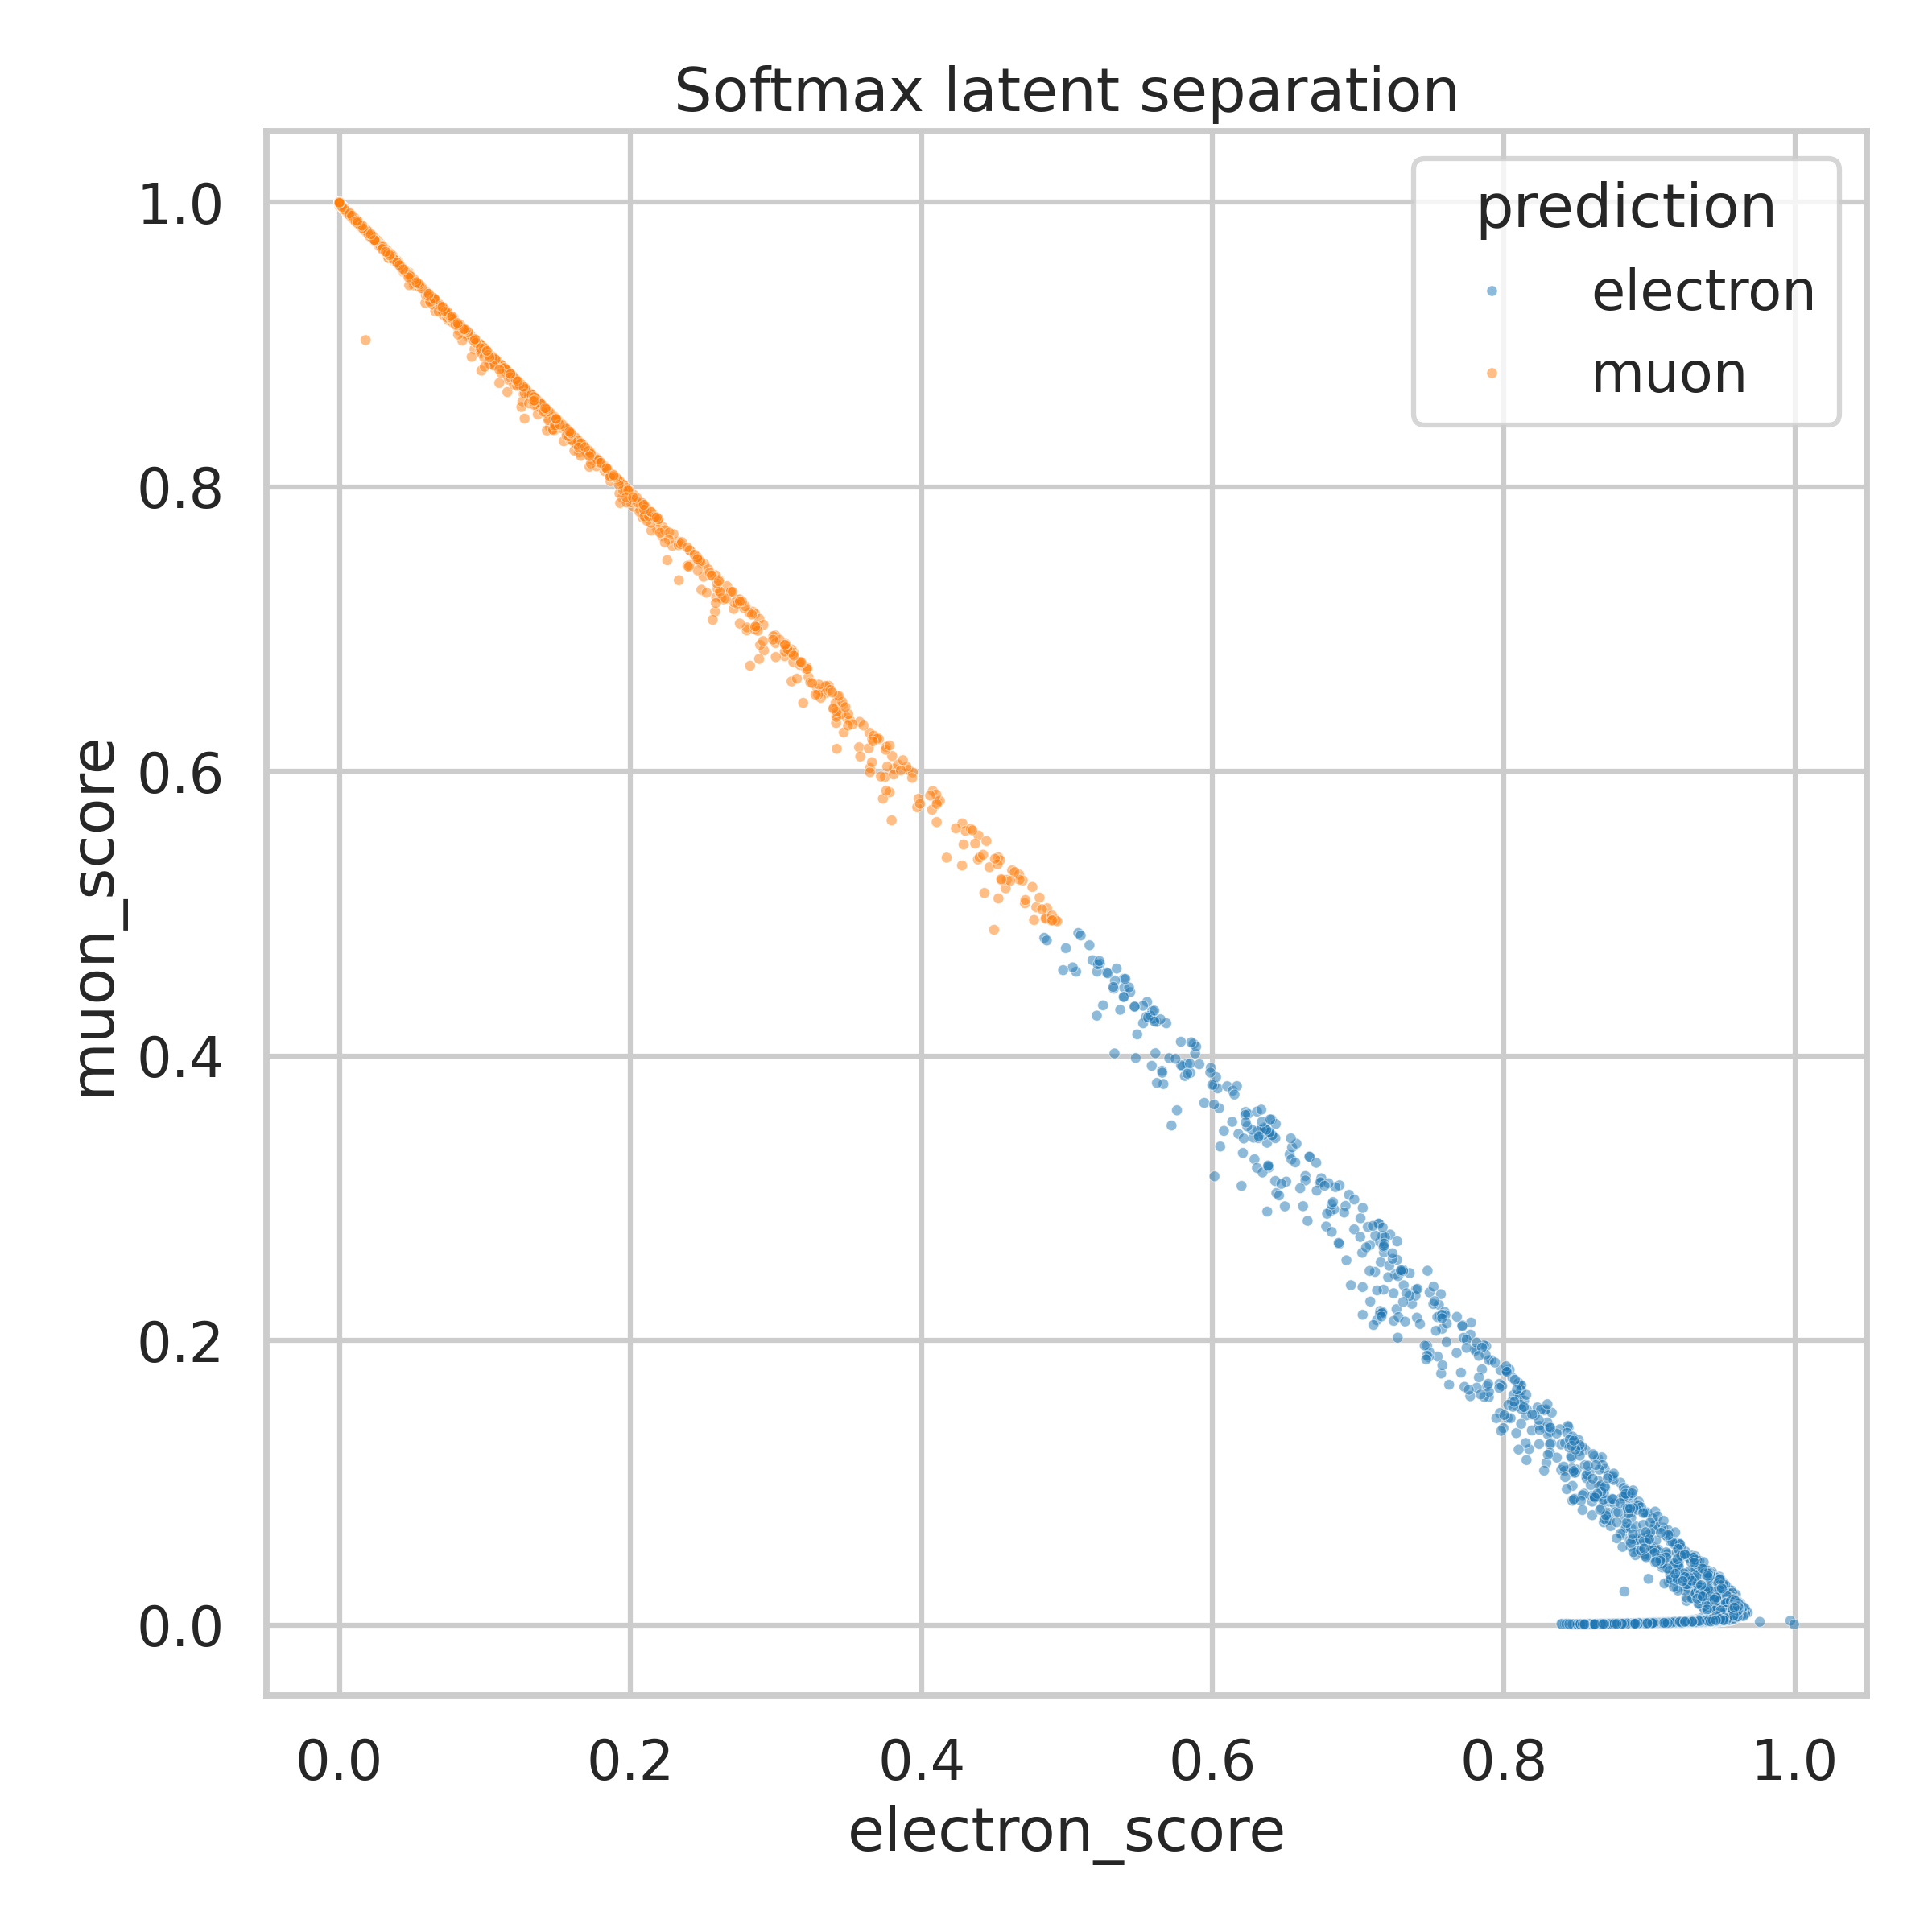
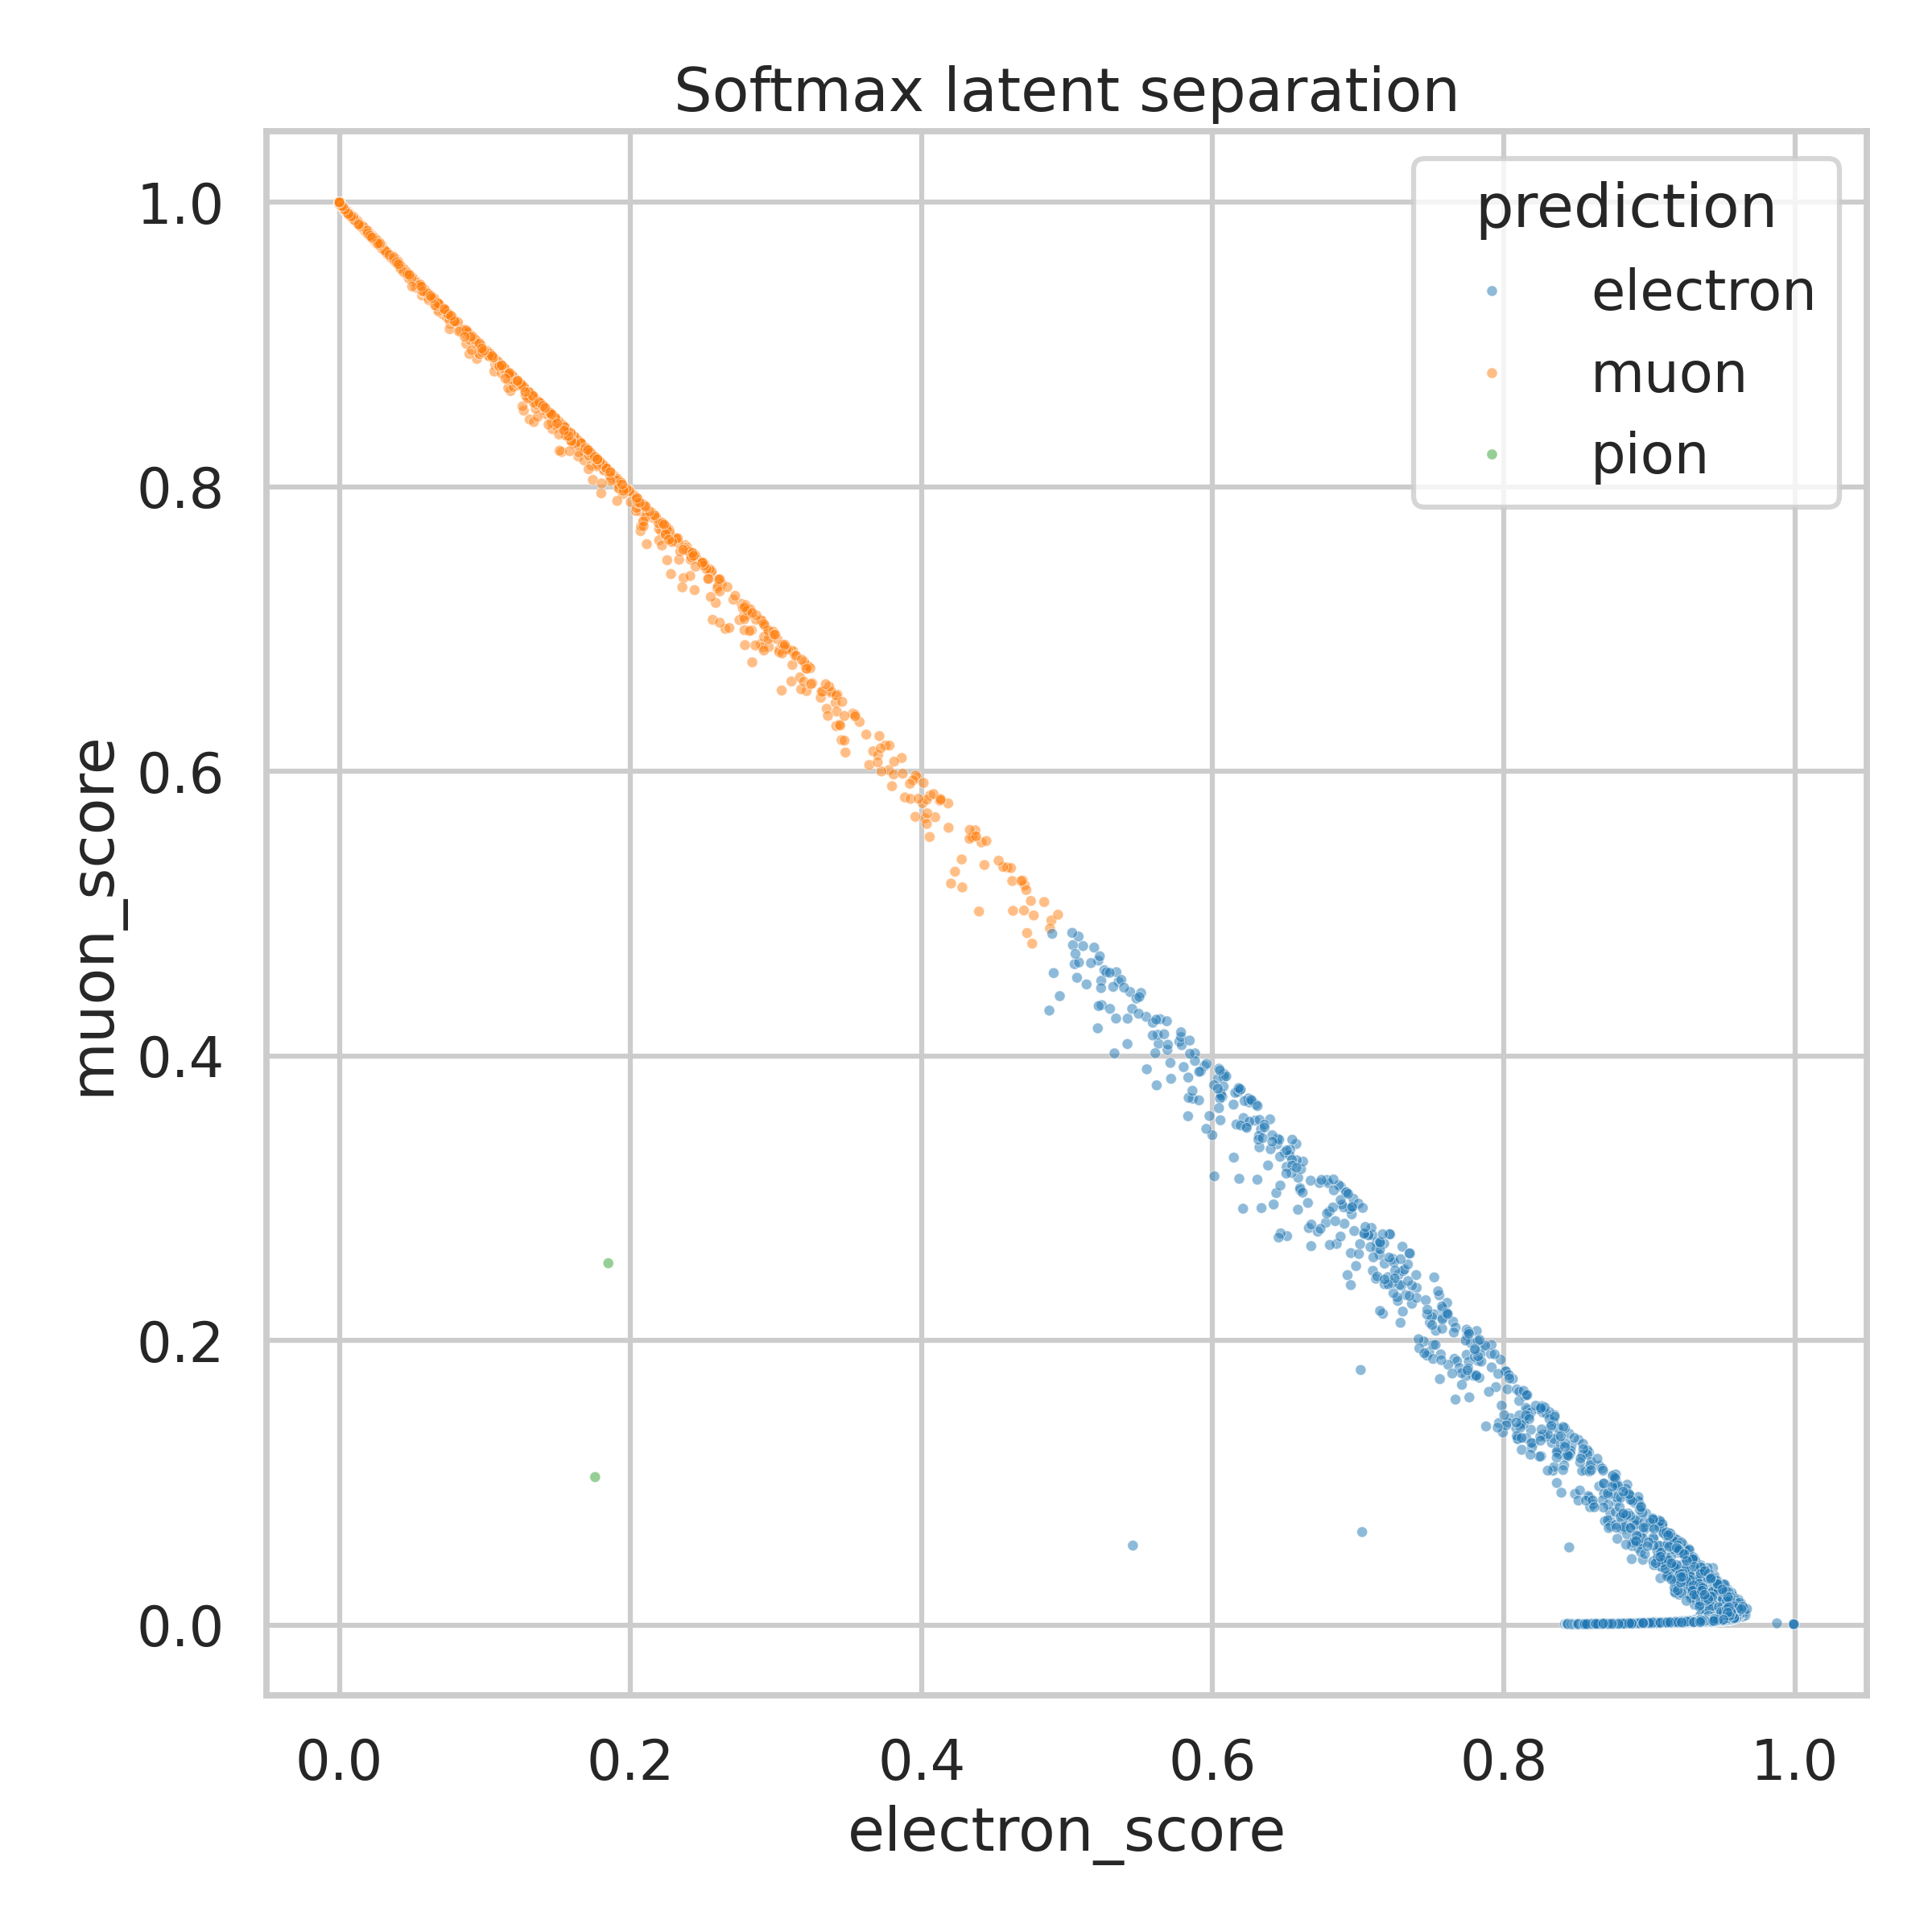
cambios

diff --git a/src/plot_event_display.py b/src/plot_event_display.py
@@ -1,146 +1,192 @@
-import pandas as pd
-import numpy as np
-import matplotlib.pyplot as plt
+import argparse
 import h5py
-from pathlib import Path
+import numpy as np
+import pandas as pd
+import matplotlib.pyplot as plt
 
+from mpl_toolkits.mplot3d import Axes3D
 
-# ============================================================
-# PATHS
-# ============================================================
+# ==========================================================
+# ARGUMENTS
+# ==========================================================
 
-CSV_DIR = Path(
-    "/media/FQM378/vmellado/GATrEnv/GATrAutoencoder"
+parser = argparse.ArgumentParser()
+
+parser.add_argument(
+    "--csv",
+    required=True,
+    help="CSV clasificado"
 )
 
-H5_DIR = Path(
-    "/media/FQM378/vmellado/GATrEnv/data/clasificador"
+parser.add_argument(
+    "--h5",
+    required=True,
+    help="Archivo HDF5 original"
 )
 
-OUTPUT_DIR = Path(
-    "/media/FQM378/vmellado/GATrEnv/GATrAutoencoder/event_displays"
+parser.add_argument(
+    "--event",
+    type=int,
+    required=True,
+    help="Índice del evento en el CSV"
 )
 
-OUTPUT_DIR.mkdir(exist_ok=True)
+parser.add_argument(
+    "--save",
+    default=None,
+    help="Guardar figura"
+)
 
+args = parser.parse_args()
 
-# ============================================================
-# LOAD CSVs
-# ============================================================
+# ==========================================================
+# LOAD CSV
+# ==========================================================
 
-csv_files = [
-    CSV_DIR / "resultados_electron_train.csv",
-    CSV_DIR / "resultados_muon_train.csv",
-    CSV_DIR / "resultados_pion_train.csv",
-    CSV_DIR / "resultados_electron_test.csv",
-    CSV_DIR / "resultados_muon_test.csv",
-    CSV_DIR / "resultados_pion_test.csv",
-]
+print("Loading CSV...")
 
-dfs = []
+df = pd.read_csv(args.csv)
 
-for f in csv_files:
-    dfs.append(pd.read_csv(f))
+print(f"Total events in CSV: {len(df)}")
 
-df = pd.concat(dfs, ignore_index=True)
+# ==========================================================
+# SELECT EVENT
+# ==========================================================
 
-print(f"Total rows: {len(df)}")
+row = df.iloc[args.event]
 
+print("\n==============================")
+print("EVENT INFORMATION")
+print("==============================")
 
-# ============================================================
-# SAMPLE EVENTS
-# ============================================================
+for col in row.index:
+    print(f"{col}: {row[col]}")
 
-sample = df.sample(20, random_state=42)
+# ==========================================================
+# EVENT ID
+# ==========================================================
 
+# MUY IMPORTANTE:
+# el CSV debe contener event_idx
+# que corresponde al índice del evento en el h5
 
-# ============================================================
-# MAP LABEL -> H5 FILE
-# ============================================================
+event_idx = int(row["event_id"])
 
-label_to_h5 = {
-    "electron": H5_DIR / "50k_e-_Emin1GeV_Emax120GeV_continuous_fixed_position_5-5--20_sigmaMomentum_0.1_train.h5",
-    "electron": H5_DIR / "50k_e-_Emin1GeV_Emax120GeV_continuous_fixed_position_5-5--20_sigmaMomentum_0.1_test.h5"
+print(f"\nUsing H5 event index: {event_idx}")
 
-    "muon": H5_DIR / "50k_mu-_Emin1GeV_Emax120GeV_continuous_fixed_position_5-5--20_sigmaMomentum_0.1_train.h5",
-    "muon": H5_DIR / "50k_mu-_Emin1GeV_Emax120GeV_continuous_fixed_position_5-5--20_sigmaMomentum_0.1_test.h5"
+# ==========================================================
+# LOAD HDF5
+# ==========================================================
 
-    "pion": H5_DIR / "50k_pi-_Emin1GeV_Emax120GeV_continuous_fixed_position_5-5--20_sigmaMomentum_0.1_train.h5",
-    "pion": H5_DIR / "50k_pi-_Emin1GeV_Emax120GeV_continuous_fixed_position_5-5--20_sigmaMomentum_0.1_test.h5"
-}
+print("\nLoading HDF5...")
 
+f = h5py.File(args.h5, "r")
 
-# ============================================================
-# LOOP OVER EVENTS
-# ============================================================
+x = f["x"][:]
+y = f["y"][:]
+z = f["z"][:]
+thr = f["thr"][:]
 
-for _, row in sample.iterrows():
+offsets = f["offsets"][:]
 
-    event_id = int(row["event_id"])
+# ==========================================================
+# GET EVENT HITS
+# ==========================================================
 
-    true_label = row["label"]
+start = offsets[event_idx]
+end = offsets[event_idx + 1]
 
-    pred_label = row.get("prediction", "unknown")
+evt_x = x[start:end]
+evt_y = y[start:end]
+evt_z = z[start:end]
+evt_thr = thr[start:end]
 
-    h5_path = label_to_h5[true_label]
+print(f"Hits in event: {len(evt_x)}")
 
-    print(f"Processing event {event_id}")
+# ==========================================================
+# LABELS
+# ==========================================================
 
-    with h5py.File(h5_path, "r") as f:
+true_label = row.get("label", "unknown")
+pred_label = row.get("prediction_name", "unknown")
 
-        event_ids = f["event_id"][:]
+electron_score = row.get("electron_score", None)
+pion_score = row.get("pion_score", None)
+muon_score = row.get("muon_score", None)
 
-        i_all = f["i"][:]
+# ==========================================================
+# PLOT
+# ==========================================================
 
-        j_all = f["j"][:]
+plt.style.use("dark_background")
 
-        energy_all = f["energy"][:]
+fig = plt.figure(figsize=(12, 10))
 
-        # select hits belonging to this event
-        mask = (event_ids == event_id)
+ax = fig.add_subplot(111, projection='3d')
 
-        i_hits = i_all[mask]
+sc = ax.scatter(
+    evt_x,
+    evt_y,
+    evt_z,
+    c=evt_thr,
+    cmap="viridis",
+    s=8,
+    alpha=0.85
+)
 
-        j_hits = j_all[mask]
+# ==========================================================
+# AXES
+# ==========================================================
 
-        e_hits = energy_all[mask]
+ax.set_xlabel("X")
+ax.set_ylabel("Y")
+ax.set_zlabel("Layer")
 
-        # build 2D image
-        img = np.zeros((30, 30))
+# ==========================================================
+# TITLE
+# ==========================================================
 
-        for ii, jj, ee in zip(i_hits, j_hits, e_hits):
+title = (
+    f"Event {event_idx}\n"
+    f"True: {true_label} | Pred: {pred_label}"
+)
 
-            img[ii, jj] += ee
+if electron_score is not None:
 
-        # ====================================================
-        # PLOT
-        # ====================================================
+    title += (
+        f"\n"
+        f"e={electron_score:.3f}  "
+        f"π={pion_score:.3f}  "
+        f"μ={muon_score:.3f}"
+    )
 
-        plt.figure(figsize=(6, 6))
+ax.set_title(title)
 
-        plt.imshow(
-            img.T,
-            origin="lower",
-            aspect="auto"
-        )
+# ==========================================================
+# COLORBAR
+# ==========================================================
 
-        plt.title(
-            f"event={event_id} | true={true_label} | pred={pred_label}"
-        )
+cbar = plt.colorbar(sc)
 
-        plt.xlabel("i")
+cbar.set_label("Threshold")
 
-        plt.ylabel("j")
+# ==========================================================
+# LAYOUT
+# ==========================================================
 
-        plt.colorbar(label="Energy")
+plt.tight_layout()
 
-        plt.tight_layout()
+# ==========================================================
+# SAVE
+# ==========================================================
 
-        plt.savefig(
-            OUTPUT_DIR / f"event_{event_id}.png",
-            dpi=200
-        )
+if args.save is not None:
 
-        plt.close()
+    plt.savefig(
+        args.save,
+        dpi=300
+    )
 
-print("Done.")
+    print(f"\nSaved figure: {args.save}")
+
+plt.show()

diff --git a/src/plot_testbeam.py b/src/plot_testbeam.py
@@ -11,7 +11,7 @@ sns.set_context("talk")
 # LOAD CSV
 # ==========================================================
 
-CSV_FILE = "classified_testbeam.csv"
+CSV_FILE = "classified_testbeam_piones.csv"
 
 print(f"Loading {CSV_FILE}")
 
@@ -24,7 +24,7 @@ print(df.columns)
 # OUTPUT DIRECTORY
 # ==========================================================
 
-OUTDIR = "testbeam_plots"
+OUTDIR = "testbeam_piones_plots"
 
 os.makedirs(
     OUTDIR,

diff --git a/src/train_transferlearning.py b/src/train_transferlearning.py
@@ -203,7 +203,7 @@ optimizer = torch.optim.Adam(
     lr=1e-3
 )
 
-EPOCHS = 30
+EPOCHS = 10
 
 for epoch in range(EPOCHS):
 